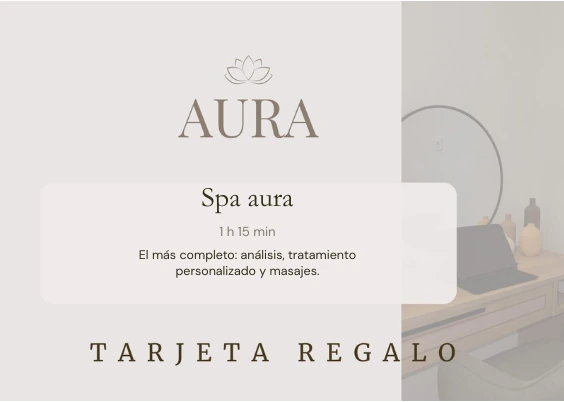
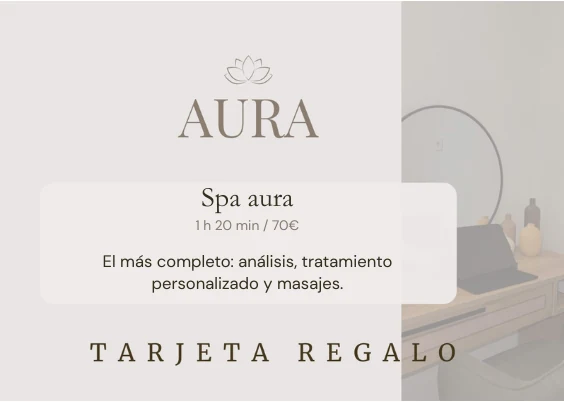
Tarjetas regalo nuevas sin precio aparte, duraciones del Spa e IVA incluido
- Tres tarjetas nuevas de la clienta (el precio ya va dentro de la imagen); se quita el precio
  que se repetia debajo y el alt recoge nombre, duracion y precio.
- Duraciones segun las tarjetas: Spa esencial 45 min y Spa aura 1 h 20 min (data.js, portada,
  Servicios y tests).
- Aviso legal: los precios incluyen IVA (confirmado por la titular).
- Documentacion y creditos de imagenes al dia.

Changed region(s): [[0.1809, 0.6269, 0.6933, 0.7463], [0.3617, 0.5373, 0.5426, 0.597]]

diff --git a/pages/tarjetas-regalo.html b/pages/tarjetas-regalo.html
@@ -102,23 +102,20 @@
         </div>
         <ul class="gift-cards" role="list">
           <li class="gift-card card reveal">
-            <img class="gift-card__img" src="../assets/img/tarjeta-spa-esencial.webp" alt="Tarjeta regalo Spa esencial, 50 min. Un momento para desconectar y disfrutar de un ritual de bienestar." width="564" height="402" loading="lazy">
+            <img class="gift-card__img" src="../assets/img/tarjeta-spa-esencial.webp" alt="Tarjeta regalo Spa esencial, 45 min, 40 €. Un momento para desconectar y disfrutar de un ritual de bienestar." width="564" height="402" loading="lazy">
             <div class="gift-card__body">
-              <p class="gift-card__meta"><span class="gift-card__price" data-price="regalo-spa-esencial">40 €</span></p>
               <a class="btn btn--primary" href="https://wa.me/34610167764" data-wa="Tarjeta regalo Spa esencial" data-wa-kind="producto">Regalar<span class="visually-hidden"> Spa esencial</span><span class="btn__icon" aria-hidden="true"><svg class="icon" aria-hidden="true" focusable="false"><use href="#i-flecha"/></svg></span></a>
             </div>
           </li>
           <li class="gift-card card reveal">
-            <img class="gift-card__img" src="../assets/img/tarjeta-spa-equilibrio.webp" alt="Tarjeta regalo Spa equilibrio, 1 h. Una experiencia que combina relajación y cuidado." width="564" height="402" loading="lazy">
+            <img class="gift-card__img" src="../assets/img/tarjeta-spa-equilibrio.webp" alt="Tarjeta regalo Spa equilibrio, 1 h, 50 €. Una experiencia que combina relajación y cuidado." width="564" height="402" loading="lazy">
             <div class="gift-card__body">
-              <p class="gift-card__meta"><span class="gift-card__price" data-price="regalo-spa-equilibrio">50 €</span></p>
               <a class="btn btn--primary" href="https://wa.me/34610167764" data-wa="Tarjeta regalo Spa equilibrio" data-wa-kind="producto">Regalar<span class="visually-hidden"> Spa equilibrio</span><span class="btn__icon" aria-hidden="true"><svg class="icon" aria-hidden="true" focusable="false"><use href="#i-flecha"/></svg></span></a>
             </div>
           </li>
           <li class="gift-card card reveal">
-            <img class="gift-card__img" src="../assets/img/tarjeta-spa-aura.webp" alt="Tarjeta regalo Spa aura, 1 h 15 min. El más completo: análisis, tratamiento personalizado y masajes." width="564" height="402" loading="lazy">
+            <img class="gift-card__img" src="../assets/img/tarjeta-spa-aura.webp" alt="Tarjeta regalo Spa aura, 1 h 20 min, 70 €. El más completo: análisis, tratamiento personalizado y masajes." width="564" height="402" loading="lazy">
             <div class="gift-card__body">
-              <p class="gift-card__meta"><span class="gift-card__price" data-price="regalo-spa-aura">70 €</span></p>
               <a class="btn btn--primary" href="https://wa.me/34610167764" data-wa="Tarjeta regalo Spa aura" data-wa-kind="producto">Regalar<span class="visually-hidden"> Spa aura</span><span class="btn__icon" aria-hidden="true"><svg class="icon" aria-hidden="true" focusable="false"><use href="#i-flecha"/></svg></span></a>
             </div>
           </li>

diff --git a/index.html b/index.html
@@ -202,7 +202,7 @@
               <div class="service-card__media service-card__media--brand" aria-hidden="true"><img class="lotus" src="assets/icons/loto.svg" alt="" width="64" height="40" loading="lazy"><span class="service-card__brand">AURA</span></div>
               <div class="service-card__body">
                 <h3><a href="pages/servicios.html#spa-esencial">Spa esencial</a></h3>
-                <div class="chips"><span class="chip">Spa</span><span class="chip" data-duration="spa-esencial">50 min</span></div>
+                <div class="chips"><span class="chip">Spa</span><span class="chip" data-duration="spa-esencial">45 min</span></div>
                 <p>Un momento para desconectar y disfrutar de un ritual de bienestar.</p>
                 <div class="service-card__foot"><span class="price" data-price="spa-esencial">40 €</span><span class="link-arrow" aria-hidden="true">Ver detalle</span></div>
               </div>
@@ -224,7 +224,7 @@
               <div class="service-card__media service-card__media--brand" aria-hidden="true"><img class="lotus" src="assets/icons/loto.svg" alt="" width="64" height="40" loading="lazy"><span class="service-card__brand">AURA</span></div>
               <div class="service-card__body">
                 <h3><a href="pages/servicios.html#spa-aura">Spa aura</a></h3>
-                <div class="chips"><span class="chip">Spa</span><span class="chip" data-duration="spa-aura">1 h 15 min</span></div>
+                <div class="chips"><span class="chip">Spa</span><span class="chip" data-duration="spa-aura">1 h 20 min</span></div>
                 <p>El más completo.</p>
                 <div class="service-card__foot"><span class="price" data-price="spa-aura">70 €</span><span class="link-arrow" aria-hidden="true">Ver detalle</span></div>
               </div>

diff --git a/tests/tarjetas-regalo.test.js b/tests/tarjetas-regalo.test.js
@@ -21,18 +21,17 @@ test('cabecera: un solo h1, textura y velo', () => {
   assert.ok(main.includes('textura-lino.webp') && main.includes('class="page-hero__veil"'));
 });
 
-test('tres tarjetas, una por spa, con su imagen y el precio debajo, fuera de la imagen', () => {
+test('tres tarjetas, una por spa: el precio va dentro de la imagen (y en su alt), no como texto aparte', () => {
   assert.equal(cards.length, 3);
   cards.forEach((c, i) => {
     const id = IDS[i];
     const img = c.match(/<img\b[^>]*>/)[0];
     assert.ok(attr(img, 'src').endsWith('tarjeta-' + id + '.webp'));
-    const alt = attr(img, 'alt');
+    const alt = norm(attr(img, 'alt'));
     assert.ok(alt.includes(data.items[id].name) && alt.includes(data.items[id].duration), 'el alt recoge el texto de la imagen');
+    assert.ok(alt.includes(norm(lib.formatPrice(data.items['regalo-' + id]))), 'el alt recoge el precio que lleva la imagen');
     assert.deepEqual([attr(img, 'width'), attr(img, 'height')], ['564', '402']);
-    const body = c.match(/<div class="gift-card__body">[\s\S]*<\/div>/)[0];
-    assert.equal(norm(body.match(new RegExp('data-price="regalo-' + id + '">([^<]*)<'))[1]), norm(lib.formatPrice(data.items['regalo-' + id])));
-    assert.ok(!c.slice(0, c.indexOf('<div class="gift-card__body">')).includes('data-price'), 'el precio no va sobre la imagen');
+    assert.ok(!c.includes('data-price'), 'el precio ya no se repite como texto bajo la imagen');
     const btn = c.match(/<a [^>]*data-wa[^>]*>/)[0];
     assert.equal(attr(btn, 'href'), 'https://wa.me/34610167764');
     assert.equal(attr(btn, 'data-wa'), 'Tarjeta regalo ' + data.items[id].name);

diff --git a/pages/servicios.html b/pages/servicios.html
@@ -165,7 +165,7 @@
             <li class="service-row card" id="spa-esencial">
               <div class="service-row__main">
                 <h3>Spa esencial</h3>
-                <div class="chips"><span class="chip" data-duration="spa-esencial">50 min</span></div>
+                <div class="chips"><span class="chip" data-duration="spa-esencial">45 min</span></div>
                 <p>Un momento para desconectar y disfrutar de un ritual de bienestar.</p>
                 <ul class="includes" role="list"><li>Higiene capilar</li><li>Exfoliante facial</li><li>Masaje de hombros, cuello, rostro y cabeza</li><li>Secado final</li></ul>
                 <button class="service-row__more" type="button" aria-haspopup="dialog">Ver qué incluye</button>
@@ -191,7 +191,7 @@
             <li class="service-row card" id="spa-aura">
               <div class="service-row__main">
                 <h3>Spa aura</h3>
-                <div class="chips"><span class="chip" data-duration="spa-aura">1 h 15 min</span></div>
+                <div class="chips"><span class="chip" data-duration="spa-aura">1 h 20 min</span></div>
                 <p>El más completo.</p>
                 <ul class="includes" role="list"><li>Análisis del cuero cabelludo</li><li>Tratamiento personalizado</li><li>Exfoliante facial</li><li>Masaje de hombros, cuello, rostro y cabeza</li><li>Masaje de manos y pies</li><li>Lavado y secado</li></ul>
                 <button class="service-row__more" type="button" aria-haspopup="dialog">Ver qué incluye</button>

diff --git a/css/styles.css b/css/styles.css
@@ -1591,8 +1591,8 @@ body:has(.service-dialog[open]) { overflow: hidden; }
    Tarjetas regalo
    ========================================================================== */
 
-/* Página de tarjetas regalo: la imagen ya lleva el nombre, la duración y la descripción; el precio y el
-   botón van debajo, fuera de la imagen */
+/* Página de tarjetas regalo: la imagen ya lleva el nombre, la duración, el precio y la descripción;
+   debajo, fuera de la imagen, solo va el botón para regalarla */
 .gift-cards {
   display: grid;
   gap: var(--s-6);
@@ -1606,19 +1606,9 @@ body:has(.service-dialog[open]) { overflow: hidden; }
   flex: 1;
   display: flex;
   align-items: center;
-  justify-content: space-between;
-  flex-wrap: wrap;
-  gap: var(--s-4);
+  justify-content: center;
   padding: var(--s-6);
 }
-.gift-card__meta {
-  display: flex;
-  align-items: baseline;
-  gap: var(--s-3);
-  margin: 0;
-  color: var(--c-anchor);
-}
-.gift-card__price { font: 500 2.25rem/1 var(--font-display); font-variant-numeric: lining-nums tabular-nums; }
 
 @media (min-width: 900px) {
   .gift-cards { gap: var(--s-8); grid-template-columns: repeat(3, minmax(0, 1fr)); }

diff --git a/pages/aviso-legal.html b/pages/aviso-legal.html
@@ -114,7 +114,7 @@
 
         <h2>3. Reservas y pedidos</h2>
         <p>Esta web no realiza ventas ni cobros en línea. Las citas, los bonos, las tarjetas regalo y los productos se solicitan por WhatsApp, por teléfono o en el propio centro, y quedan confirmados cuando el centro responde. Los productos se recogen en el centro.</p>
-        <p>Los precios mostrados son los vigentes en el centro y pueden cambiar. Los precios mostrados no llevan IVA.</p>
+        <p>Los precios mostrados son los vigentes en el centro y pueden cambiar. Los precios mostrados incluyen IVA.</p>
 
         <h2>4. Propiedad intelectual e industrial</h2>
         <p>Todos los contenidos de este sitio web (textos, fotografías, gráficos, imágenes, tecnología, software, diseño gráfico, código fuente y demás elementos) son propiedad intelectual de Paula Ramírez Caballero o de terceros que han autorizado su uso, sin que puedan entenderse cedidos al usuario ninguno de los derechos de explotación reconocidos por la normativa vigente en materia de propiedad intelectual e industrial.</p>

diff --git a/js/data.js b/js/data.js
@@ -40,9 +40,9 @@
       'diagnostico':       { type: 'servicio', category: 'salud', name: 'Diagnóstico', price: 10, from: false },
 
       // Spa
-      'spa-esencial':   { type: 'servicio', category: 'spa', name: 'Spa esencial',   duration: '50 min', price: 40, from: false },
+      'spa-esencial':   { type: 'servicio', category: 'spa', name: 'Spa esencial',   duration: '45 min', price: 40, from: false },
       'spa-equilibrio': { type: 'servicio', category: 'spa', name: 'Spa equilibrio', duration: '1 h',           price: 50, from: false },
-      'spa-aura':       { type: 'servicio', category: 'spa', name: 'Spa aura',       duration: '1 h 15 min',    price: 70, from: false },
+      'spa-aura':       { type: 'servicio', category: 'spa', name: 'Spa aura',       duration: '1 h 20 min',    price: 70, from: false },
 
       // Peluquería (incluye barros, alisado y antifrizz). Los precios en rango son orientativos
       // (varían según los productos que se gasten).

diff --git a/tests/legal-404.test.js b/tests/legal-404.test.js
@@ -97,6 +97,6 @@ test('legales: datos del titular rellenos y sin campos pendientes', () => {
   for (const html of [aviso, privacidad]) assert.ok(html.includes('49166388R'));
   assert.ok(!privacidad.includes('<mark class="pendiente">'));
   assert.ok(!aviso.includes('<mark class="pendiente">'));
-  assert.ok(aviso.includes('Los precios mostrados no llevan IVA.'));
+  assert.ok(aviso.includes('Los precios mostrados incluyen IVA.'));
   for (const d of ['15', '16', '17', '18', '20', '21']) assert.ok(privacidad.includes('art. ' + d + ' RGPD'), 'art. ' + d);
 });

diff --git a/tests/data.test.js b/tests/data.test.js
@@ -65,9 +65,9 @@ test('precios de la carta (lista dada por Paula)', () => {
 });
 
 test('duraciones del Spa (confirmadas por Paula)', () => {
-  assert.equal(data.items['spa-esencial'].duration, '50 min');
+  assert.equal(data.items['spa-esencial'].duration, '45 min');
   assert.equal(data.items['spa-equilibrio'].duration, '1 h');
-  assert.equal(data.items['spa-aura'].duration, '1 h 15 min');
+  assert.equal(data.items['spa-aura'].duration, '1 h 20 min');
 });
 
 test('el catálogo tiene los 31 items esperados', () => {

diff --git a/docs/contenido-fuente.md b/docs/contenido-fuente.md
@@ -8,7 +8,9 @@ Este documento es la **única fuente de textos** para construir la demo B. El co
 
 > **Estado del documento (noviembre de 2026).** Tras las reuniones con la clienta la web ha cambiado y este texto **va por detrás** en estas partes; ahí manda el HTML publicado, que es lo que los tests comprueban:
 > - **Tienda:** ahora tiene dos marcas (Jaldún y Brazilian Hairtech), más productos y un filtro. Los textos de producto (incluidas las descripciones de Actianagen y Brazilian) **los aportó la clienta** y están solo en `pages/tienda.html`; no se han copiado aquí.
-> - **Tarjetas regalo:** ya no son las tres de 25, 50 y 75 € de abajo, sino una página propia (`pages/tarjetas-regalo.html`) con los diseños de la clienta.
+> - **Tarjetas regalo:** ya no son las tres de 25, 50 y 75 € de abajo, sino una página propia (`pages/tarjetas-regalo.html`) con los diseños de la clienta: Spa esencial 40 €, Spa equilibrio 50 € y Spa aura 70 €. El precio va dentro de la imagen y no se repite como texto.
+> - **Duraciones del Spa (noviembre de 2026):** Spa esencial 45 min y Spa aura 1 h 20 min (antes 50 min y 1 h 15 min, que son las que aparecen más abajo); manda `js/data.js`.
+> - **IVA:** los precios incluyen IVA (confirmado por la titular).
 > - **Privacidad y cookies:** son dos páginas, `pages/privacidad.html` y `pages/cookies.html`.
 > - **Barra superior:** se quitó; el horario se ve en el bloque `[data-hours]`.
 > - **Navegación:** incluye Tarjetas regalo y submenús de Servicios y Tienda.
@@ -550,7 +552,7 @@ Esta web da a conocer los servicios, productos y el horario de Centro Aura y fac
 
 Esta web no realiza ventas ni cobros en línea. Las citas, los bonos, las tarjetas regalo y los productos se solicitan por WhatsApp, por teléfono o en el propio centro, y quedan confirmados cuando el centro responde. Los productos se recogen en el centro.
 
-Los precios mostrados son los vigentes en el centro y pueden cambiar. [Confirmar: los precios incluyen IVA]
+Los precios mostrados son los vigentes en el centro y pueden cambiar. Los precios mostrados incluyen IVA.
 
 **H2:** 4. Propiedad intelectual
 
@@ -679,7 +681,7 @@ La PARTE 1 de arriba reduce los textos a líneas; **estos bloques son el marcado
 
         <h2>3. Reservas y pedidos</h2>
         <p>Esta web no realiza ventas ni cobros en línea. Las citas, los bonos, las tarjetas regalo y los productos se solicitan por WhatsApp, por teléfono o en el propio centro, y quedan confirmados cuando el centro responde. Los productos se recogen en el centro.</p>
-        <p>Los precios mostrados son los vigentes en el centro y pueden cambiar. <mark class="pendiente">[Confirmar: los precios incluyen IVA]</mark></p>
+        <p>Los precios mostrados son los vigentes en el centro y pueden cambiar. Los precios mostrados incluyen IVA.</p>
 
         <h2>4. Propiedad intelectual</h2>
         <p>Los textos, el diseño, el logotipo y las imágenes de esta web pertenecen a su titular o se usan con licencia. No pueden copiarse ni reutilizarse sin su permiso.</p>

diff --git a/README.md b/README.md
@@ -57,7 +57,7 @@ El mapa **no se carga** hasta que la visitante pulsa "Ver el mapa". Hasta entonc
 
 1. `npm run pendientes` lista lo que falta: los datos legales sin rellenar y el dominio provisional. Termina con código 0 cuando no queda nada.
 2. El dominio definitivo es `centroauraspa.es`. Si cambiara: `npm run domain -- https://www.tudominio.es` (con `https://`, sin barra final).
-3. Confirma con la clienta los precios, el horario definitivo y si los precios incluyen IVA (el aviso legal lo afirma y debe ser cierto).
+3. Confirma con la clienta los precios y el horario definitivos. Los precios incluyen IVA (confirmado), y así lo dice el aviso legal.
 4. `npm run build` copia a `dist/` **solo la web** (lista blanca en `tools/build.mjs`); no se publican `tests/`, `tools/`, `docs/` ni `blueprints/`. En Vercel lo hace `vercel.json`, que además añade las cabeceras de seguridad y la caché de `/assets/`.
 5. La página 404 se sirve en cualquier URL gracias a `<base href="/">`.
 
@@ -106,6 +106,6 @@ La demo B nació de la A (commit `1444fd6`): mismos datos y mismas URLs, otra im
 ## Pendiente de la clienta
 
 - Fotos reales que sustituyan a las de stock que quedan (ver `assets/img/CREDITOS.md`).
-- Precios y horario definitivos, y confirmar si los precios incluyen IVA (el aviso legal dice que no los incluyen: pendiente de consultar).
+- Precios y horario definitivos.
 - Las páginas legales se dan por buenas (noviembre de 2026), pero conservan el comentario `<!-- BORRADOR -->` en el código fuente, que no se ve en la web. Quitarlo exige también cambiar `tests/legal-404.test.js`.
 - Reseñas reales para añadir tras el lanzamiento, nunca inventadas.

diff --git a/assets/img/CREDITOS.md b/assets/img/CREDITOS.md
@@ -31,6 +31,6 @@ Aportadas por la clienta. Sustituyen a las provisionales con el mismo nombre de 
 - `servicio-peluqueria.webp` — cuencos de madera y productos de cuidado capilar (recorte vertical 4:5).
 - `tarjeta-regalo.webp` — recorte horizontal de la foto de la cabina, para el banner de la portada.
 - `paula-aura.webp` — Paula junto al cartel de Centro Aura (portada, «Sobre Aura»).
-- `tarjeta-spa-esencial.webp`, `tarjeta-spa-equilibrio.webp`, `tarjeta-spa-aura.webp` — diseños de las tarjetas regalo entregados por la clienta (llevan el nombre, la duración y la descripción); el precio va debajo, desde `pages/tarjetas-regalo.html`.
+- `tarjeta-spa-esencial.webp`, `tarjeta-spa-equilibrio.webp`, `tarjeta-spa-aura.webp` — diseños de las tarjetas regalo entregados por la clienta (noviembre de 2026; llevan el nombre, la duración, el precio y la descripción dentro de la imagen, 564 × 402 px). Sustituyen a los diseños anteriores, que llevaban el precio aparte; la página ya no repite el precio como texto.
 
 Cabeceras de página (recortes horizontales de fotos reales de la clienta, bajo un velo claro): `hero-servicios.webp` (mesa de diagnóstico), `hero-tienda.webp` (productos y cuencos) y `hero-contacto.webp` (Paula junto al cartel). Tarjetas regalo, Aviso legal y Privacidad usan `textura-lino.webp`.
